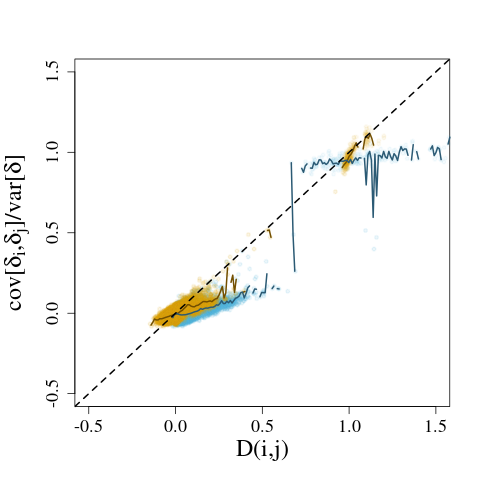
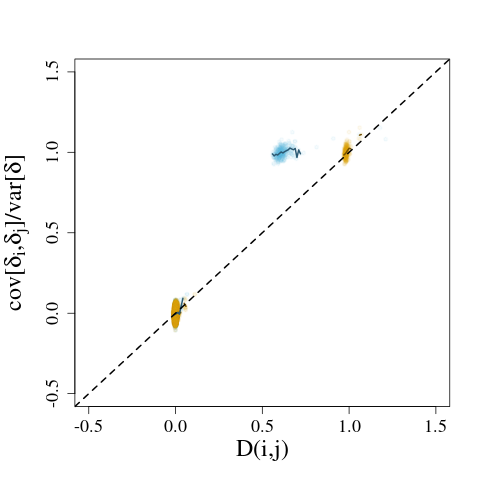
New figures

diff --git a/fast_correl/fast_correl_w_weights.cc b/fast_correl/fast_correl_w_weights.cc
@@ -532,7 +532,7 @@ int main (int argc, char **argv){
 						   +mmMm*(0.-OY)*(1.-OY)+MmMm*(0.-OY)*(1.-OY)+MMMm*(0.-OY)*(1.-OY)
 						   +mmMM*(1.-OY)*(1.-OY)+MmMM*(1.-OY)*(1.-OY)+MMMM*(1.-OY)*(1.-OY) )/(OY*(1-OY ) )/Den;
 					//std::cerr << f*(-f_X-f_Y) << ", " << W*Den << std::endl;
-					f_p+=f*(f-f_X-f_Y)*W*Den;
+					f_p+=f*(-f_X-f_Y)*W*Den;
 					f_w+=W*Den;
 					
 					double q=1-d2;
